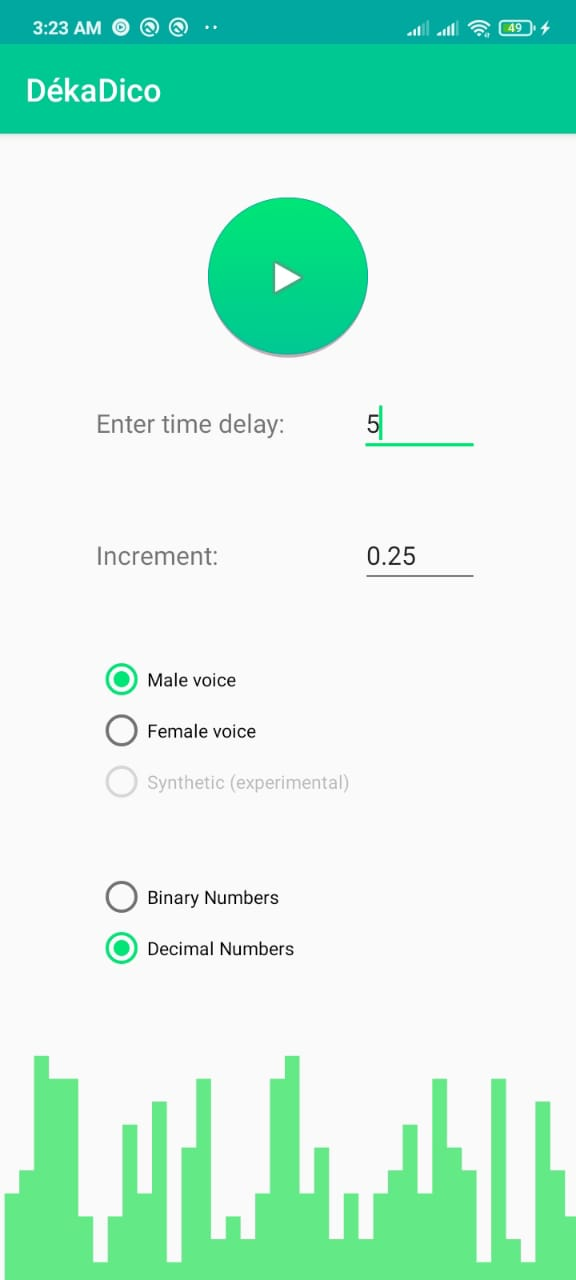
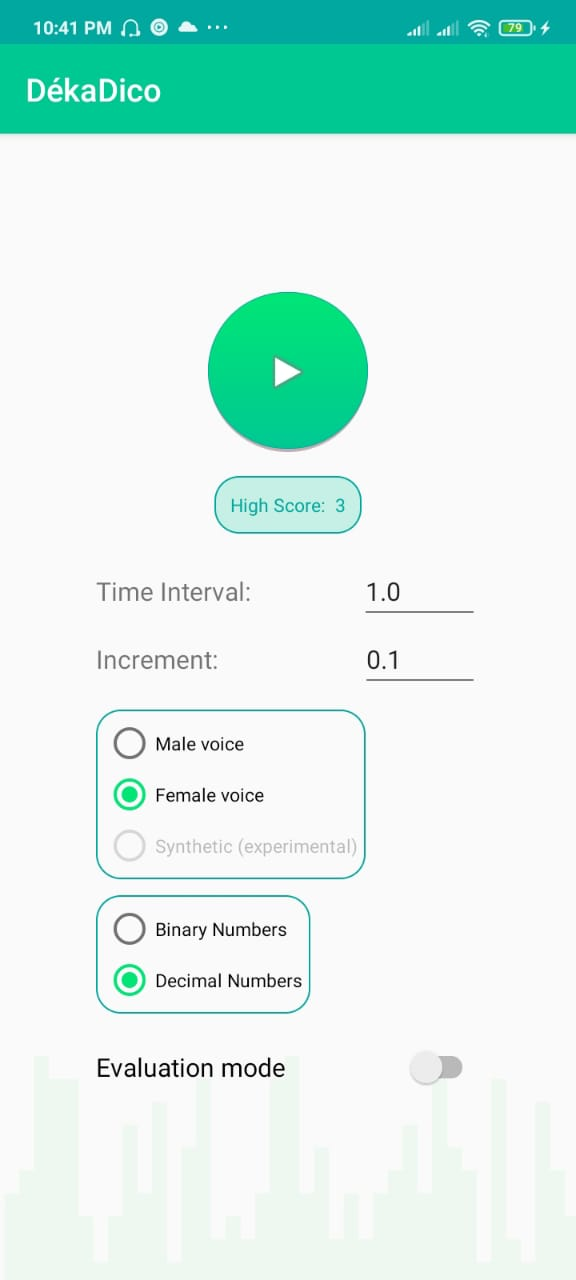
prepare for next release

diff --git a/README.md b/README.md
@@ -25,10 +25,9 @@ It's a memory training app, which is intended for those interested in improving 
 - Choose between binary and decimal numbers to practice.
 - Save choices and preferences automatically.
 - improved UI
-
-#### Implemented for next release
-
 - transition animation between windows
+- Evaluation mode
+- Store and display Highscore
 
 ### Running the Program
 
